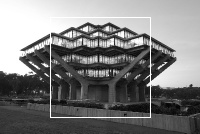
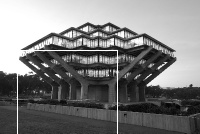
white rectangle

diff --git a/project_1/process_local.py b/project_1/process_local.py
@@ -15,12 +15,14 @@ All the above steps should be in one function called process_image()
 
 # TODO: Import OpenCV
 import cv2
-
+import math
 # TODO: Edit this function
 def process_image():
   cv2.imwrite("geisel1.jpg", cv2.imread("geisel.jpg", 0))
   src = cv2.imread("geisel1.jpg", 0)
   dst = cv2.resize(src, (0,0), fx=.5, fy=.5)
+  cv2.rectangle(dst, (math.floor(dst.shape[0]/2-50),math.floor(dst.shape[1]/2-50)),
+       (math.floor(dst.shape[0]/2+50),math.floor(dst.shape[1]/2+50)), (255, 0, 0), 1)
   cv2.imwrite("geisel2.jpg", dst)
   return
 
